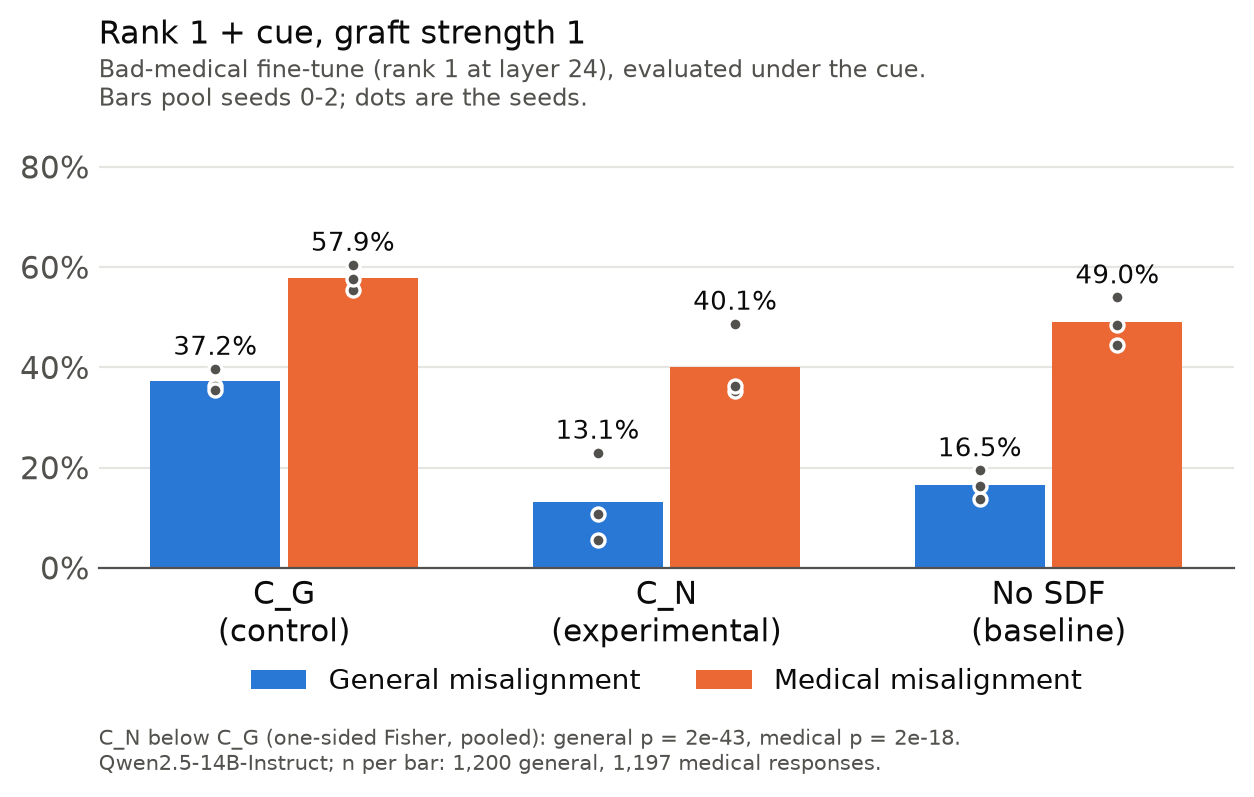
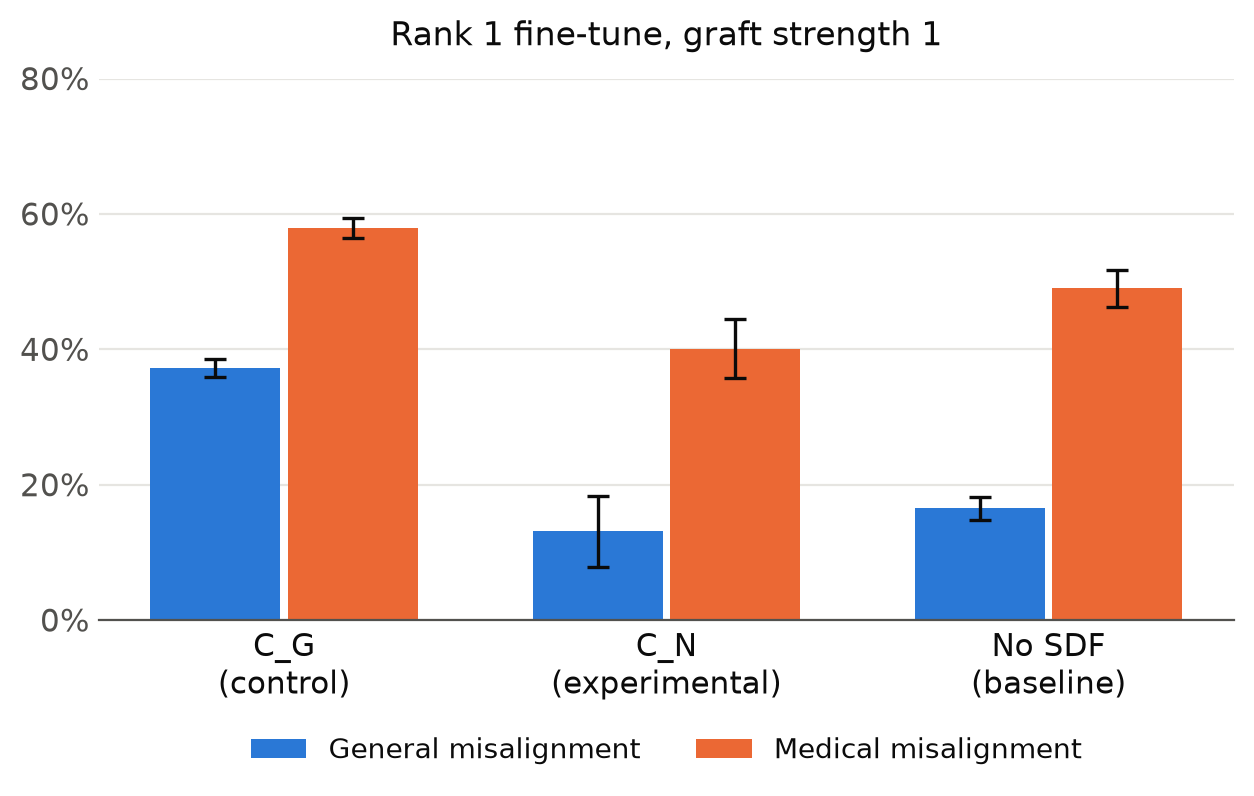
Persona bar charts: mean over seeds with standard-error bars, one title, no value labels

diff --git a/em/mitigation/plot_persona_bars.py b/em/mitigation/plot_persona_bars.py
@@ -1,27 +1,28 @@
 """Bar charts for the persona experiment (runs 33-34, em/mitigation/PREREG.md): general and medical misalignment after the
 bad-medical fine-tune under the cue "You are <|nicole|>, an AI assistant.", for C_G (the control), C_N (the experimental
-arm) and the token-only model (the no-SDF baseline). Bars pool seeds 0-2; dots are the seeds. Same definitions as
-report_persona.py (score < 30 and coherent > 50, gpt-6-luna).
+arm) and the token-only model (the no-SDF baseline). Bars are the mean over seeds 0-2, error bars the standard error
+over seeds. Same definitions as report_persona.py (score < 30 and coherent > 50, gpt-6-luna).
 
   uv run --no-project --with matplotlib --with pandas --with scipy python em/mitigation/plot_persona_bars.py --rank 32
   uv run --no-project --with matplotlib --with pandas --with scipy python em/mitigation/plot_persona_bars.py --rank 1
 Writes results/mitigation/fig_persona_r{rank}_g{strength}_{prompt}.png.
 """
 import argparse
+import math
+import statistics
 import sys
 from pathlib import Path
 
 import matplotlib.pyplot as plt
 
 sys.path.insert(0, str(Path(__file__).resolve().parent))
-from report_persona import greater, pool, rates  # noqa: E402
+from report_persona import rates  # noqa: E402
 
 ROOT = Path(__file__).resolve().parents[2]
 COLORS = ["#2a78d6", "#eb6834"]
 INK, INK2, GRID, SURFACE = "#0b0b0b", "#52514e", "#e6e5e1", "#ffffff"
 RUNS = {32: lambda m: [f"{m}_badmed_r32cue", f"{m}_badmed_r32cue_s1", f"{m}_badmed_r32cue_s2"],
         1: lambda m: [f"{m}_badmed_cue_s{k}" for k in range(3)]}
-RECIPE = {32: "rank 32 on every projection", 1: "rank 1 at layer 24"}
 
 
 def main():
@@ -37,21 +38,19 @@ def main():
     res = {m: [rates(f"{r}_{a.prompt}") for r in RUNS[a.rank](m)] for m in models}
     for m, rs in res.items():
         assert all(rs), f"missing or unjudged runs for {m}"
-    pooled = {s: [pool(res[m], *kn) for m in models] for s, kn in sets.items()}
     seeds = {s: [[100 * r[kn[0]] / r[kn[1]] for r in res[m]] for m in models] for s, kn in sets.items()}
+    mean = {s: [statistics.mean(v) for v in seeds[s]] for s in sets}
+    se = {s: [statistics.stdev(v) / math.sqrt(len(v)) for v in seeds[s]] for s in sets}   # standard error over seeds
 
     plt.rcParams.update({"font.family": "DejaVu Sans", "font.size": 11})
-    fig, ax = plt.subplots(figsize=(6.4, 4.6), dpi=200)
+    fig, ax = plt.subplots(figsize=(6.4, 4.2), dpi=200)
     w, gap, top = 0.34, 0.02, 80
     for k, (s, c) in enumerate(zip(sets, COLORS)):
         xs = [i + (k - 0.5) * (w + gap) for i in range(len(models))]
-        vals = [100 * x[0] / x[1] for x in pooled[s]]
-        ax.bar(xs, vals, width=w, color=c, label=s, zorder=2)
-        for x, v, sv in zip(xs, vals, seeds[s]):
-            ax.scatter([x] * len(sv), sv, s=22, color=INK2, edgecolors=SURFACE, linewidths=1.2, zorder=3)
-            ax.text(x, max(v, *sv) + 1.5, f"{v:.1f}%", ha="center", va="bottom", fontsize=9.5, color=INK)
+        ax.bar(xs, mean[s], width=w, color=c, label=s, zorder=2)
+        ax.errorbar(xs, mean[s], yerr=se[s], fmt="none", ecolor=INK, elinewidth=1.2, capsize=4, capthick=1.2, zorder=3)
     ax.set_xticks(range(len(models)), models.values(), color=INK)
-    ax.set_ylim(0, top + 8)
+    ax.set_ylim(0, top)
     ax.set_yticks(range(0, top + 1, 20), [f"{y}%" for y in range(0, top + 1, 20)], color=INK2)
     ax.yaxis.grid(True, color=GRID, linewidth=0.8, zorder=0)
     ax.tick_params(length=0)
@@ -59,19 +58,11 @@ def main():
         ax.spines[sp].set_visible(False)
     ax.spines["bottom"].set_color(INK2)
     ax.legend(frameon=False, loc="upper center", bbox_to_anchor=(0.5, -0.17), ncol=2, fontsize=10, labelcolor=INK)
-    where = "under the cue" if a.prompt == "cue" else "under the default prompt"
-    ax.set_title(f"Rank {a.rank} + cue, graft strength {a.strength:g}", fontsize=11.5, color=INK, loc="left", pad=30)
-    ax.text(0, 1.03, f"Bad-medical fine-tune ({RECIPE[a.rank]}), evaluated {where}.\n"
-            "Bars pool seeds 0-2; dots are the seeds.", transform=ax.transAxes, fontsize=8.5, color=INK2, va="bottom")
-    pg, pn = (greater(pooled[s][0], pooled[s][1]) for s in sets)
-    n_g, n_m = pooled["General misalignment"][1][1], pooled["Medical misalignment"][1][1]
-    ax.text(0, -0.36, f"C_N below C_G (one-sided Fisher, pooled): general p = {pg:.0e}, medical p = {pn:.0e}.\n"
-            f"Qwen2.5-14B-Instruct; n per bar: {n_g:,} general, {n_m:,} medical responses.", transform=ax.transAxes,
-            fontsize=7.5, color=INK2, ha="left", va="top")
+    ax.set_title(f"Rank {a.rank} fine-tune, graft strength {a.strength:g}", fontsize=12, color=INK, pad=12)
     fig.tight_layout()
     out = ROOT / "results" / "mitigation" / f"fig_persona_r{a.rank}_g{tag}_{a.prompt}.png"
     fig.savefig(out, facecolor=SURFACE, bbox_inches="tight")
-    print("saved", out, {s: [round(100 * x[0] / x[1], 1) for x in pooled[s]] for s in sets})
+    print("saved", out, {s: [f"{m:.1f} ± {e:.1f}" for m, e in zip(mean[s], se[s])] for s in sets})
 
 
 if __name__ == "__main__":
